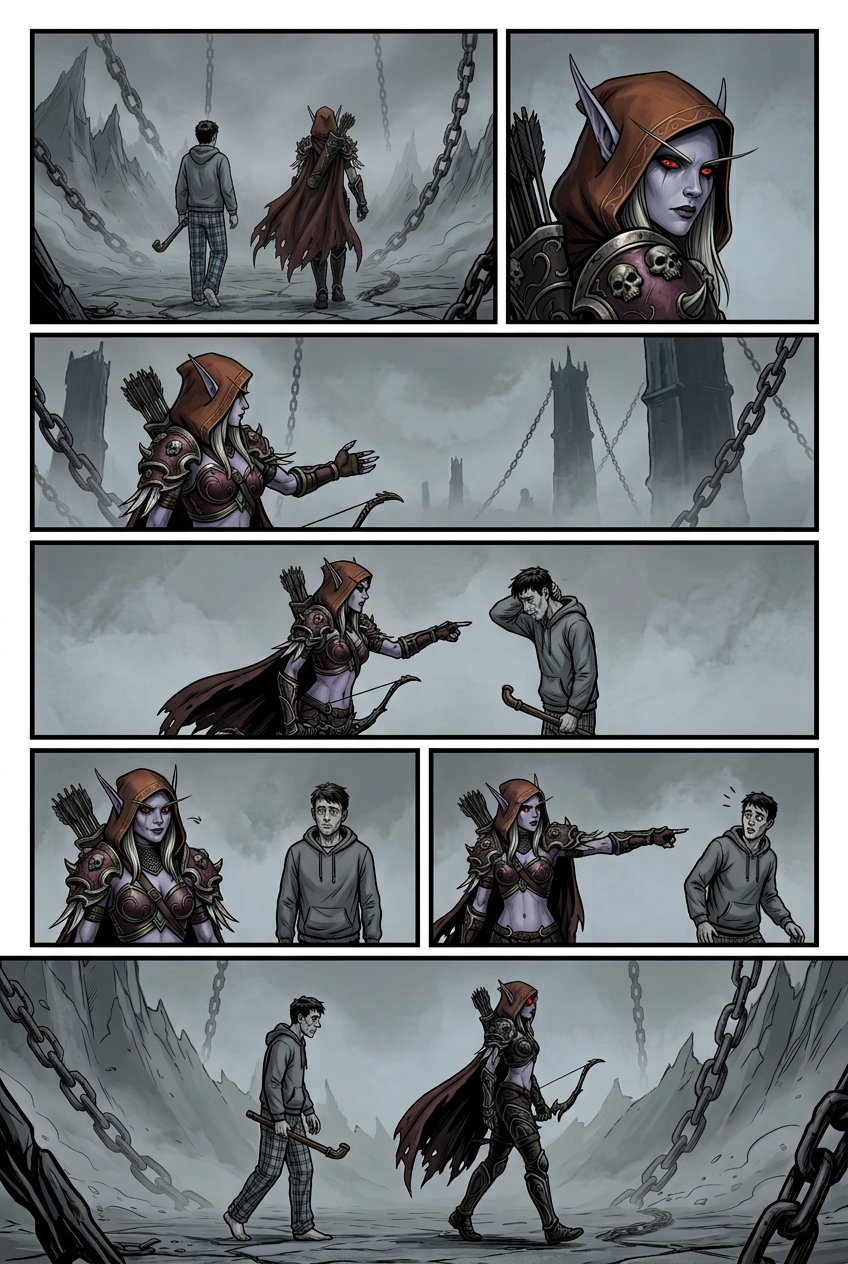
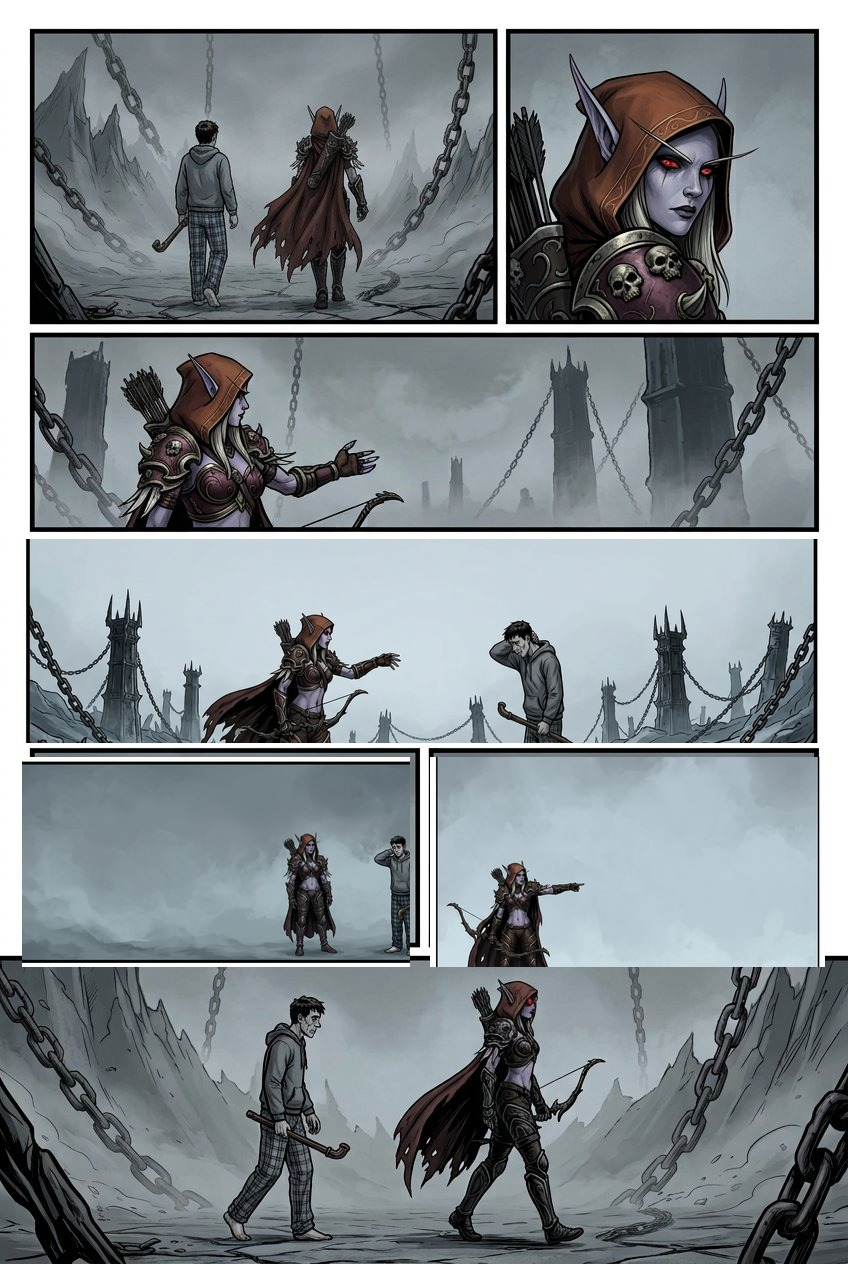
v16 20260911-16: balões fora de cenas e personagens
- Reenquadramento aberto (personagens menores + céu para balões) em 10
  quadros lotados: P6-q2, P7-q3, P7-q5, P8-q0, P8-q2, P9-q3, P9-q4, P9-q5
  (P7-q1/q2 e P9-q6/P10-q0 ficam para a próxima leva)
- Correção dos rostos do P6-q0 (estavam anotados na metade da escala)
- Zonas de corpo nos quadros reenquadrados; narração 'Muito baixo...'
  movida para o quadro do abrigo (P10) onde há céu livre
- Âncoras recalibradas; fala de karatê em fs20 empilhada na coluna livre
- Validador: 94 balões, fs mínima 18px, 0 violações, 0 fora do quadro

Changed region(s): [[0.0, 0.4011, 0.9811, 0.7714]]

diff --git a/livro continua/site/hq/data.js b/livro continua/site/hq/data.js
@@ -93,7 +93,7 @@ const PAGINAS = [
 /* ==================== PÁGINA 5 — O jogo (arte real) ==================== */
 { img:"img/page05.jpg",
  paineis:[
-   {r:[30,30,1215,585], rostos:[[195,95,75,85],[420,180,65,75]]},
+   {r:[30,30,1215,585], rostos:[[195,95,75,85],[420,180,65,75]], zonas:[[265,115,370,485],[750,270,330,330]]},
    {r:[30,630,590,310], rostos:[[95,700,190,185]]},
    {r:[650,630,600,310], rostos:[[842,702,138,170]]},
    {r:[30,960,630,410], rostos:[[855,1075,105,105],[30,1265,185,110]], zonas:[[810,1075,160,260]]},
@@ -120,19 +120,19 @@ const PAGINAS = [
 /* ==================== PÁGINA 6 — A tatuagem (arte real) ==================== */
 { img:"img/page06.jpg",
  paineis:[
-   {r:[30,30,1215,510], rostos:[[325,30,70,70],[460,140,55,60]], zonas:[[200,95,180,330]]},
-   {r:[30,560,590,370], rostos:[[85,635,60,70],[350,735,50,60]], zonas:[[60,700,140,220]]},
-   {r:[650,560,600,370], rostos:[[785,645,70,90],[1085,635,80,90]]},
-   {r:[30,950,1215,440], rostos:[[100,995,140,190],[500,1085,65,90]], zonas:[[480,1170,150,220],[230,1230,290,160],[225,1215,265,185]]},
-   {r:[30,1410,1215,480], rostos:[[100,1425,165,230],[355,1415,150,210]], zonas:[[265,1675,100,110],[150,1700,150,160]]}
+   {r:[30,30,1215,510], rostos:[[630,55,85,85],[875,260,75,70]], zonas:[[200,95,180,330],[580,40,230,160],[810,330,270,180]]},
+   {r:[30,560,590,370], rostos:[[85,635,60,70],[350,735,50,60]], zonas:[[60,700,140,220],[115,595,205,290],[330,780,195,145]]},
+   {r:[650,560,600,370], rostos:[[800,805,50,55],[930,800,55,60]], zonas:[[780,795,110,130],[910,790,120,135]]},
+   {r:[30,950,1215,440], rostos:[[100,995,140,190],[500,1085,65,90]], zonas:[[480,1170,150,220],[230,1230,290,160],[225,1215,265,185],[60,1150,230,220]]},
+   {r:[30,1410,1215,480], rostos:[[100,1425,165,230],[355,1415,150,210]], zonas:[[265,1675,100,110],[150,1700,150,160],[170,1470,520,320]]}
  ],
  elementos:[
    {t:"grito", p:0, de:"sylvanas", ancora:[355, 105], texto:"Levante-se."},
    {t:"narra", p:0, texto:"Ela o contornou por completo, avaliando o tecido do moletom, o zíper, a etiqueta na nuca, a meia imunda — e a ausência total de arma."},
    {t:"fala", p:1, de:"sylvanas", ancora:[115, 705], texto:"Suas roupas são absurdas."},
-   {t:"fala", p:2, de:"nathan", ancora:[820, 735], texto:"Elas são de dormir."},
-   {t:"fala", p:2, de:"nathan", ancora:[820, 740], texto:"Você quer uma prova?"},
-   {t:"fala", p:2, de:"sylvanas", ancora:[1120, 725], texto:"Quero."},
+   {t:"fala", p:2, de:"nathan", ancora:[825, 820], texto:"Elas são de dormir."},
+   {t:"fala", p:2, de:"nathan", ancora:[825, 825], texto:"Você quer uma prova?"},
+   {t:"fala", p:2, de:"sylvanas", ancora:[958, 815], texto:"Quero."},
    {t:"narra", p:3, texto:"A terceira hesitação foi diferente. As outras foram cautela. Aquela era vergonha. Ele arregaçou a manga direita."},
    {t:"fala", p:3, de:"sylvanas", ancora:[560, 1110], texto:"Isso está na sua pele."},
    {t:"fala", p:3, de:"nathan", ancora:[170, 1185], texto:"Está."},
@@ -148,34 +148,34 @@ const PAGINAS = [
    {r:[30,55,1215,550], rostos:[[245,115,180,220]], zonas:[[430,270,120,120]]},
    {r:[30,620,380,500], rostos:[[85,675,180,280]]},
    {r:[430,620,390,500], rostos:[[535,655,170,250]]},
-   {r:[840,620,405,500], rostos:[[895,675,210,280]]},
-   {r:[30,1140,590,750], rostos:[[95,1235,90,100],[315,1555,45,55]], zonas:[[60,1330,180,400]]},
-   {r:[650,1140,595,750], rostos:[[695,1285,180,280],[1045,1295,160,270]]}
+   {r:[840,620,405,500], rostos:[[845,845,70,80]], zonas:[[840,925,180,190]]},
+   {r:[30,1140,590,750], rostos:[[95,1235,90,100],[315,1555,45,55]], zonas:[[60,1330,180,400],[80,1540,440,340]]},
+   {r:[650,1140,595,750], rostos:[[690,1690,90,105],[1080,1680,80,100]], zonas:[[665,1780,220,105],[1030,1770,215,115]]}
  ],
  elementos:[
    {t:"fala", p:0, de:"nathan", ancora:[335, 335], texto:"Porque a sua história me acompanhou num período em que eu não estava bem. Você era a personagem que não pedia desculpa por continuar existindo depois de ter perdido tudo. Isso importava pra mim. Numa época em que eu não sabia como fazer isso."},
    {t:"fala", p:1, de:"sylvanas", ancora:[175, 905], texto:"Personagem."},
    {t:"fala", p:2, de:"nathan", ancora:[625, 855], texto:"É a palavra errada. Eu sei."},
-   {t:"fala", p:3, de:"sylvanas", ancora:[1000, 885], texto:"É a palavra exata. E é por isso que ela é insuportável."},
+   {t:"fala", p:3, de:"sylvanas", ancora:[878, 880], texto:"É a palavra exata. E é por isso que ela é insuportável."},
    {t:"narra", p:4, texto:"Ela se afastou dois passos e olhou para o horizonte de costelas de ferro. Por um momento, ele viu — realmente viu — o quanto ela estava cansada."},
-   {t:"fala", p:5, de:"sylvanas", ancora:[790, 1455], texto:"Então você sabe. Sobre Quel'Thalas. Sobre Arthas. Sobre o que eu fiz depois. Sobre a Torre de Lordaeron. Sobre tudo."},
-   {t:"fala", p:5, de:"nathan", ancora:[1125, 1455], texto:"Sei."}
+   {t:"fala", p:5, de:"sylvanas", ancora:[735, 1725], texto:"Então você sabe. Sobre Quel'Thalas. Sobre Arthas. Sobre o que eu fiz depois. Sobre a Torre de Lordaeron. Sobre tudo."},
+   {t:"fala", p:5, de:"nathan", ancora:[1120, 1720], texto:"Sei."}
  ]},
 /* ==================== PÁGINA 8 — História e pessoa (quadros provisórios) ==================== */
 /* ==================== PÁGINA 8 — História e pessoa (arte real) ==================== */
 { img:"img/page08.jpg",
  paineis:[
-   {r:[30,30,590,580], rostos:[[145,95,90,100]], zonas:[[110,190,180,400]]},
+   {r:[30,30,590,580], rostos:[[525,70,75,80]], zonas:[[445,55,175,520]]},
    {r:[650,30,600,580], rostos:[[795,105,220,260]]},
-   {r:[30,630,1215,330], rostos:[[240,655,430,290]]},
+   {r:[30,630,1215,330], rostos:[[500,680,400,180]]},
    {r:[30,980,590,410], rostos:[[175,1015,190,250]]},
    {r:[650,980,600,410], rostos:[[985,1035,125,115]], zonas:[[940,1150,310,240]]},
    {r:[30,1420,1215,470], rostos:[[175,1555,40,45],[435,1545,40,50]]}
  ],
  elementos:[
-   {t:"fala", p:0, de:"sylvanas", ancora:[190, 185], texto:"E ainda assim escolheu carregar o meu rosto no seu corpo."},
+   {t:"fala", p:0, de:"sylvanas", ancora:[540, 120], texto:"E ainda assim escolheu carregar o meu rosto no seu corpo."},
    {t:"fala", p:1, de:"nathan", ancora:[900, 305], texto:"Sim."},
-   {t:"fala", p:2, de:"sylvanas", ancora:[440, 755], texto:"Você não faz ideia de quem eu sou."},
+   {t:"fala", p:2, de:"sylvanas", ancora:[700, 700], texto:"Você não faz ideia de quem eu sou."},
    {t:"narra", p:2, texto:"Havia nos olhos dela algo que ele só entenderia meses depois: desprezo — não por ele, mas pela possibilidade de ser admirada."},
    {t:"fala", p:3, de:"nathan", ancora:[270, 1205], texto:"Não. Não faço mesmo."},
    {t:"narra", p:3, texto:"Ela franziu a testa, minimamente. Não era a resposta esperada."},
@@ -188,22 +188,22 @@ const PAGINAS = [
 /* ==================== PÁGINA 9 — A caminhada (arte real) ==================== */
 { img:"img/page09.jpg",
  paineis:[
-   {r:[30,30,590,450], rostos:[[130,105,45,55],[220,100,70,80]]},
-   {r:[650,30,600,450], rostos:[[785,85,170,185]]},
+   {r:[30,30,590,450], rostos:[[130,105,45,55],[220,100,70,80]], zonas:[[190,145,230,310],[410,110,260,350]]},
+   {r:[650,30,600,450], rostos:[[785,85,170,185]], zonas:[[655,295,360,180]]},
    {r:[30,500,1215,300], rostos:[[145,555,75,110]], zonas:[[215,600,120,90]]},
-   {r:[30,820,1215,310], rostos:[[155,865,80,100],[385,875,60,70]], zonas:[[230,900,150,80],[380,860,90,60]]},
-   {r:[30,1150,590,320], rostos:[[75,1175,110,160],[245,1225,50,65]]},
-   {r:[650,1150,600,320], rostos:[[695,1175,100,130],[1075,1195,60,70]], zonas:[[780,1230,140,80]]},
+   {r:[30,820,1215,310], rostos:[[165,895,45,55],[370,905,40,45]], zonas:[[130,880,190,240],[350,890,110,230]]},
+   {r:[30,1150,590,320], rostos:[[540,1230,40,50]], zonas:[[510,1220,110,230]]},
+   {r:[650,1150,600,320], rostos:[[700,1180,55,70]], zonas:[[680,1170,180,290]]},
    {r:[30,1490,1215,400], rostos:[[195,1525,55,70],[345,1495,85,95]], zonas:[[150,1680,140,60],[330,1600,160,260]]}
  ],
  elementos:[
    {t:"fala", p:0, de:"sylvanas", ancora:[255, 175], texto:"Você não pode ficar aqui."},
    {t:"fala", p:1, de:"nathan", ancora:[700, 445], texto:"Concordo plenamente. Como eu saio?"},
    {t:"fala", p:2, de:"sylvanas", ancora:[180, 645], texto:"Você não sai. Isto é a Gorja — não há portas. Aquela criatura tinha companhia. Elas sempre têm."},
-   {t:"fala", p:3, de:"sylvanas", ancora:[195, 945], texto:"Você luta. Desviou do primeiro golpe, não recuou depois, atacou uma articulação. Foi tudo terrivelmente insuficiente. Mas não foi burro."},
-   {t:"fala", p:3, de:"nathan", ancora:[415, 925], texto:"Eu treinei caratê desde os oito anos. Serve para brigas de rua... não para aquilo."},
-   {t:"fala", p:4, de:"sylvanas", ancora:[130, 1315], texto:"O corpo já sabe obedecer. Isso poupa meses."},
-   {t:"grito", p:5, de:"sylvanas", ancora:[745, 1295], texto:"Você vem comigo."},
+   {t:"fala", p:3, de:"sylvanas", ancora:[188, 925], tamanho:20, texto:"Você luta. Desviou do primeiro golpe, não recuou depois, atacou uma articulação. Foi tudo terrivelmente insuficiente. Mas não foi burro."},
+   {t:"fala", p:3, de:"nathan", ancora:[388, 925], tamanho:20, texto:"Eu treinei caratê desde os oito anos. Serve para brigas de rua... não para aquilo."},
+   {t:"fala", p:4, de:"sylvanas", ancora:[560, 1250], texto:"O corpo já sabe obedecer. Isso poupa meses."},
+   {t:"grito", p:5, de:"sylvanas", ancora:[728, 1215], texto:"Você vem comigo."},
    {t:"fala", p:5, de:"nathan", ancora:[1105, 1255], texto:"Assim? Sem mais interrogatório?"},
    {t:"fala", p:6, de:"sylvanas", ancora:[388, 1550], tamanho:20, texto:"O interrogatório continua. Simplesmente vai continuar enquanto caminhamos."},
    {t:"fala", p:6, de:"sylvanas", ancora:[388, 1555], tamanho:20, texto:"Você anda três passos atrás de mim. À esquerda — não à direita."},
@@ -220,8 +220,8 @@ const PAGINAS = [
    {r:[30,580,590,370], rostos:[[100,600,450,330]]},
    {r:[650,580,600,370], rostos:[[825,615,130,140]], zonas:[[750,750,320,180]]},
    {r:[30,970,590,330], rostos:[[80,980,480,310]]},
-   {r:[650,970,600,330], rostos:[[785,995,90,100]], zonas:[[700,1080,250,200]]},
-   {r:[30,1320,1215,570], rostos:[[350,1375,65,80],[155,1555,70,80]], zonas:[[330,1450,220,260],[200,1620,260,170]]}
+   {r:[650,970,600,330], rostos:[[785,995,90,100]], zonas:[[700,1080,250,200],[690,1140,500,150]]},
+   {r:[30,1320,1215,570], rostos:[[350,1375,65,80],[155,1555,70,80]], zonas:[[330,1462,220,248],[200,1620,260,170]]}
  ],
  elementos:[
    {t:"fala", p:0, de:"sylvanas", ancora:[220, 185], texto:"Você entende que não tem absolutamente nenhuma condição de me ajudar."},
@@ -229,7 +229,7 @@ const PAGINAS = [
    {t:"narra", p:0, texto:"O olhar que ela deu não tinha raiva nem surpresa — só uma atenção súbita e muito precisa. Como quem reajusta a mira ao descobrir que o vento mudou."},
    {t:"fala", p:0, de:"nathan", ancora:[430, 150], texto:"Prometer que eu vou correr e não voltar é uma promessa sobre a pessoa que eu sou. E eu prefiro não mentir sobre isso... no meu primeiro dia."},
    {t:"fala", p:4, de:"sylvanas", ancora:[830, 1060], texto:"Hm."},
-   {t:"narra", p:4, texto:"Muito baixo. Quase inaudível. Ela voltou a andar. Ele a seguiu — três passos atrás, à esquerda."},
+   {t:"narra", p:5, texto:"Muito baixo. Quase inaudível. Ela voltou a andar. Ele a seguiu — três passos atrás, à esquerda."},
    {t:"narra", p:5, texto:"Estranhamente, isso não o assustou."},
    {t:"narra", p:5, texto:"Isso o deixou curioso."},
    {t:"narra", p:5, texto:"Durante quatro anos, ele carregara o rosto dela no braço. E naquela noite, a primeira de muitas, percebeu que não sabia absolutamente nada sobre a mulher que tinha salvo sua vida."},

diff --git a/livro continua/site/hq/index.html b/livro continua/site/hq/index.html
@@ -12,7 +12,7 @@
 <link rel="preconnect" href="https://fonts.googleapis.com">
 <link rel="preconnect" href="https://fonts.gstatic.com" crossorigin>
 <link href="https://fonts.googleapis.com/css2?family=Bangers&family=Oswald:wght@400;500;600;700&family=Spectral:ital,wght@1,400;1,500;1,600" rel="stylesheet">
-<link rel="stylesheet" href="hq.css?v=20260911-15">
+<link rel="stylesheet" href="hq.css?v=20260911-16">
 </head>
 <body>
 
@@ -52,9 +52,9 @@
 <div class="dots" id="dots"></div>
 <div class="indicador" id="ind"></div>
 
-<script src="layout.js?v=20260911-15"></script>
-<script src="data.js?v=20260911-15"></script>
-<script src="leitor.js?v=20260911-15"></script>
+<script src="layout.js?v=20260911-16"></script>
+<script src="data.js?v=20260911-16"></script>
+<script src="leitor.js?v=20260911-16"></script>
 <script>
 document.getElementById("capaBt").addEventListener("click",()=>{
   document.getElementById("capa").classList.remove("oculta");

diff --git a/livro continua/site/hq/ler.html b/livro continua/site/hq/ler.html
@@ -12,7 +12,7 @@
 <link rel="preconnect" href="https://fonts.googleapis.com">
 <link rel="preconnect" href="https://fonts.gstatic.com" crossorigin>
 <link href="https://fonts.googleapis.com/css2?family=Bangers&family=Oswald:wght@400;500;600;700&family=Spectral:ital,wght@1,400;1,500;1,600" rel="stylesheet">
-<link rel="stylesheet" href="hq.css?v=20260911-15">
+<link rel="stylesheet" href="hq.css?v=20260911-16">
 </head>
 <body>
 
@@ -52,9 +52,9 @@
 <div class="dots" id="dots"></div>
 <div class="indicador" id="ind"></div>
 
-<script src="layout.js?v=20260911-15"></script>
-<script src="data.js?v=20260911-15"></script>
-<script src="leitor.js?v=20260911-15"></script>
+<script src="layout.js?v=20260911-16"></script>
+<script src="data.js?v=20260911-16"></script>
+<script src="leitor.js?v=20260911-16"></script>
 <script>
 document.getElementById("capaBt").addEventListener("click",()=>{
   document.getElementById("capa").classList.remove("oculta");

diff --git a/livro continua/site/hq/leitor.js b/livro continua/site/hq/leitor.js
@@ -6,7 +6,7 @@
    Rabichos são desenhados sobre os balões REAIS medidos no DOM.
    ============================================================ */
 const PW = 1280, PH = 1920;
-const VER = "20260911-15";
+const VER = "20260911-16";
 const NS = "http://www.w3.org/2000/svg";
 const COM_RABICHO = ["fala","grito","rouca","sussurro"];
 
